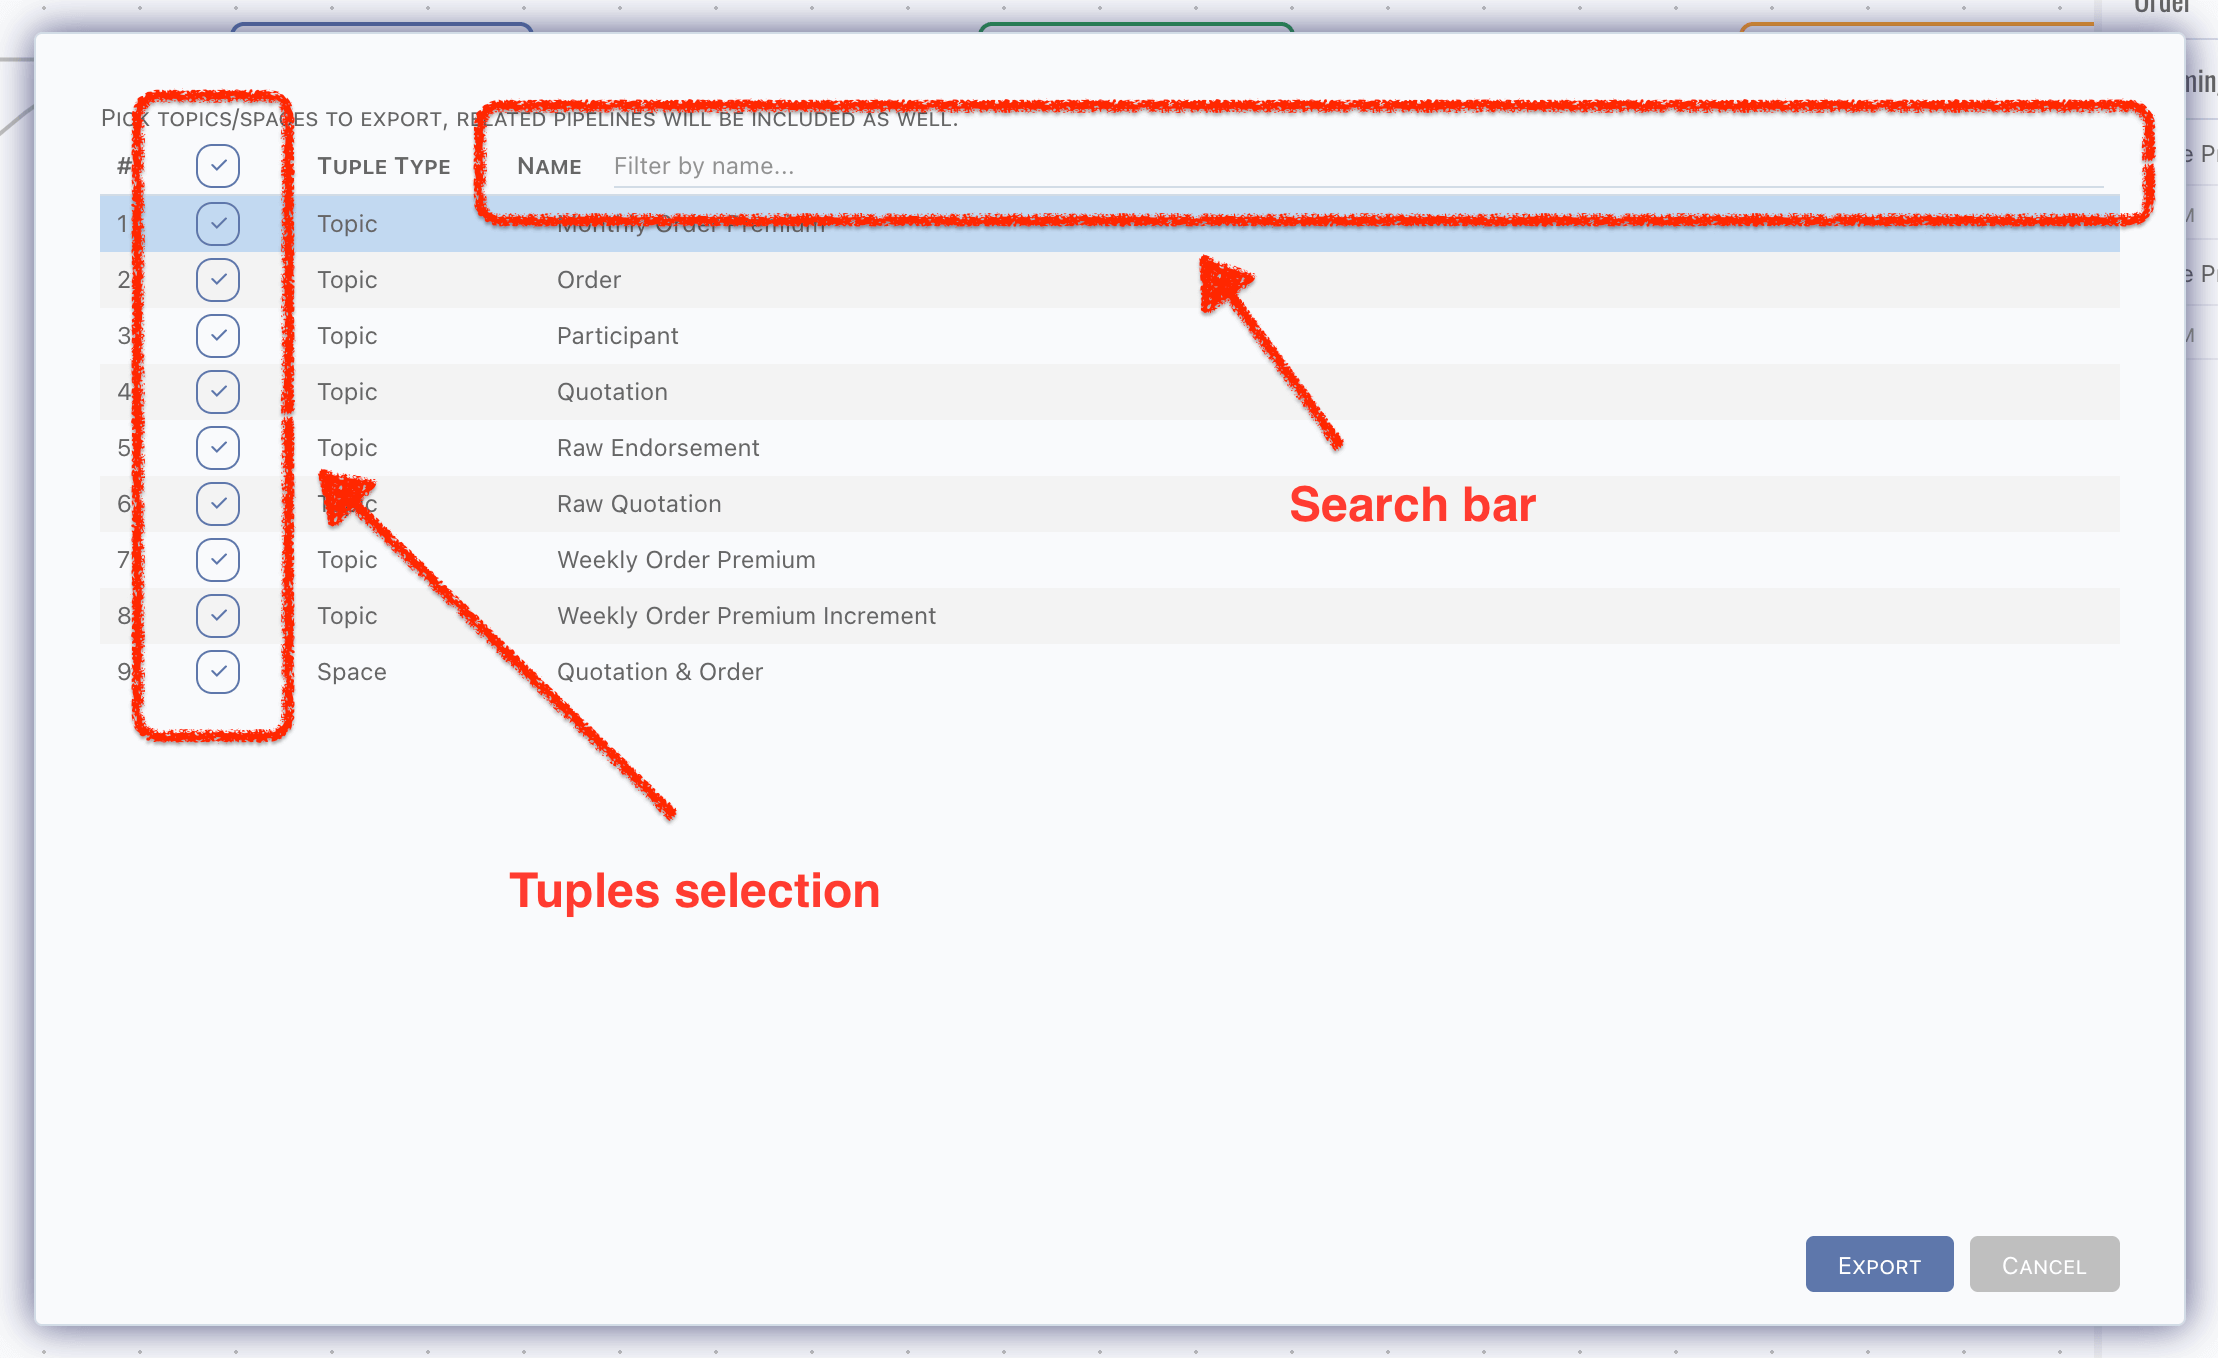
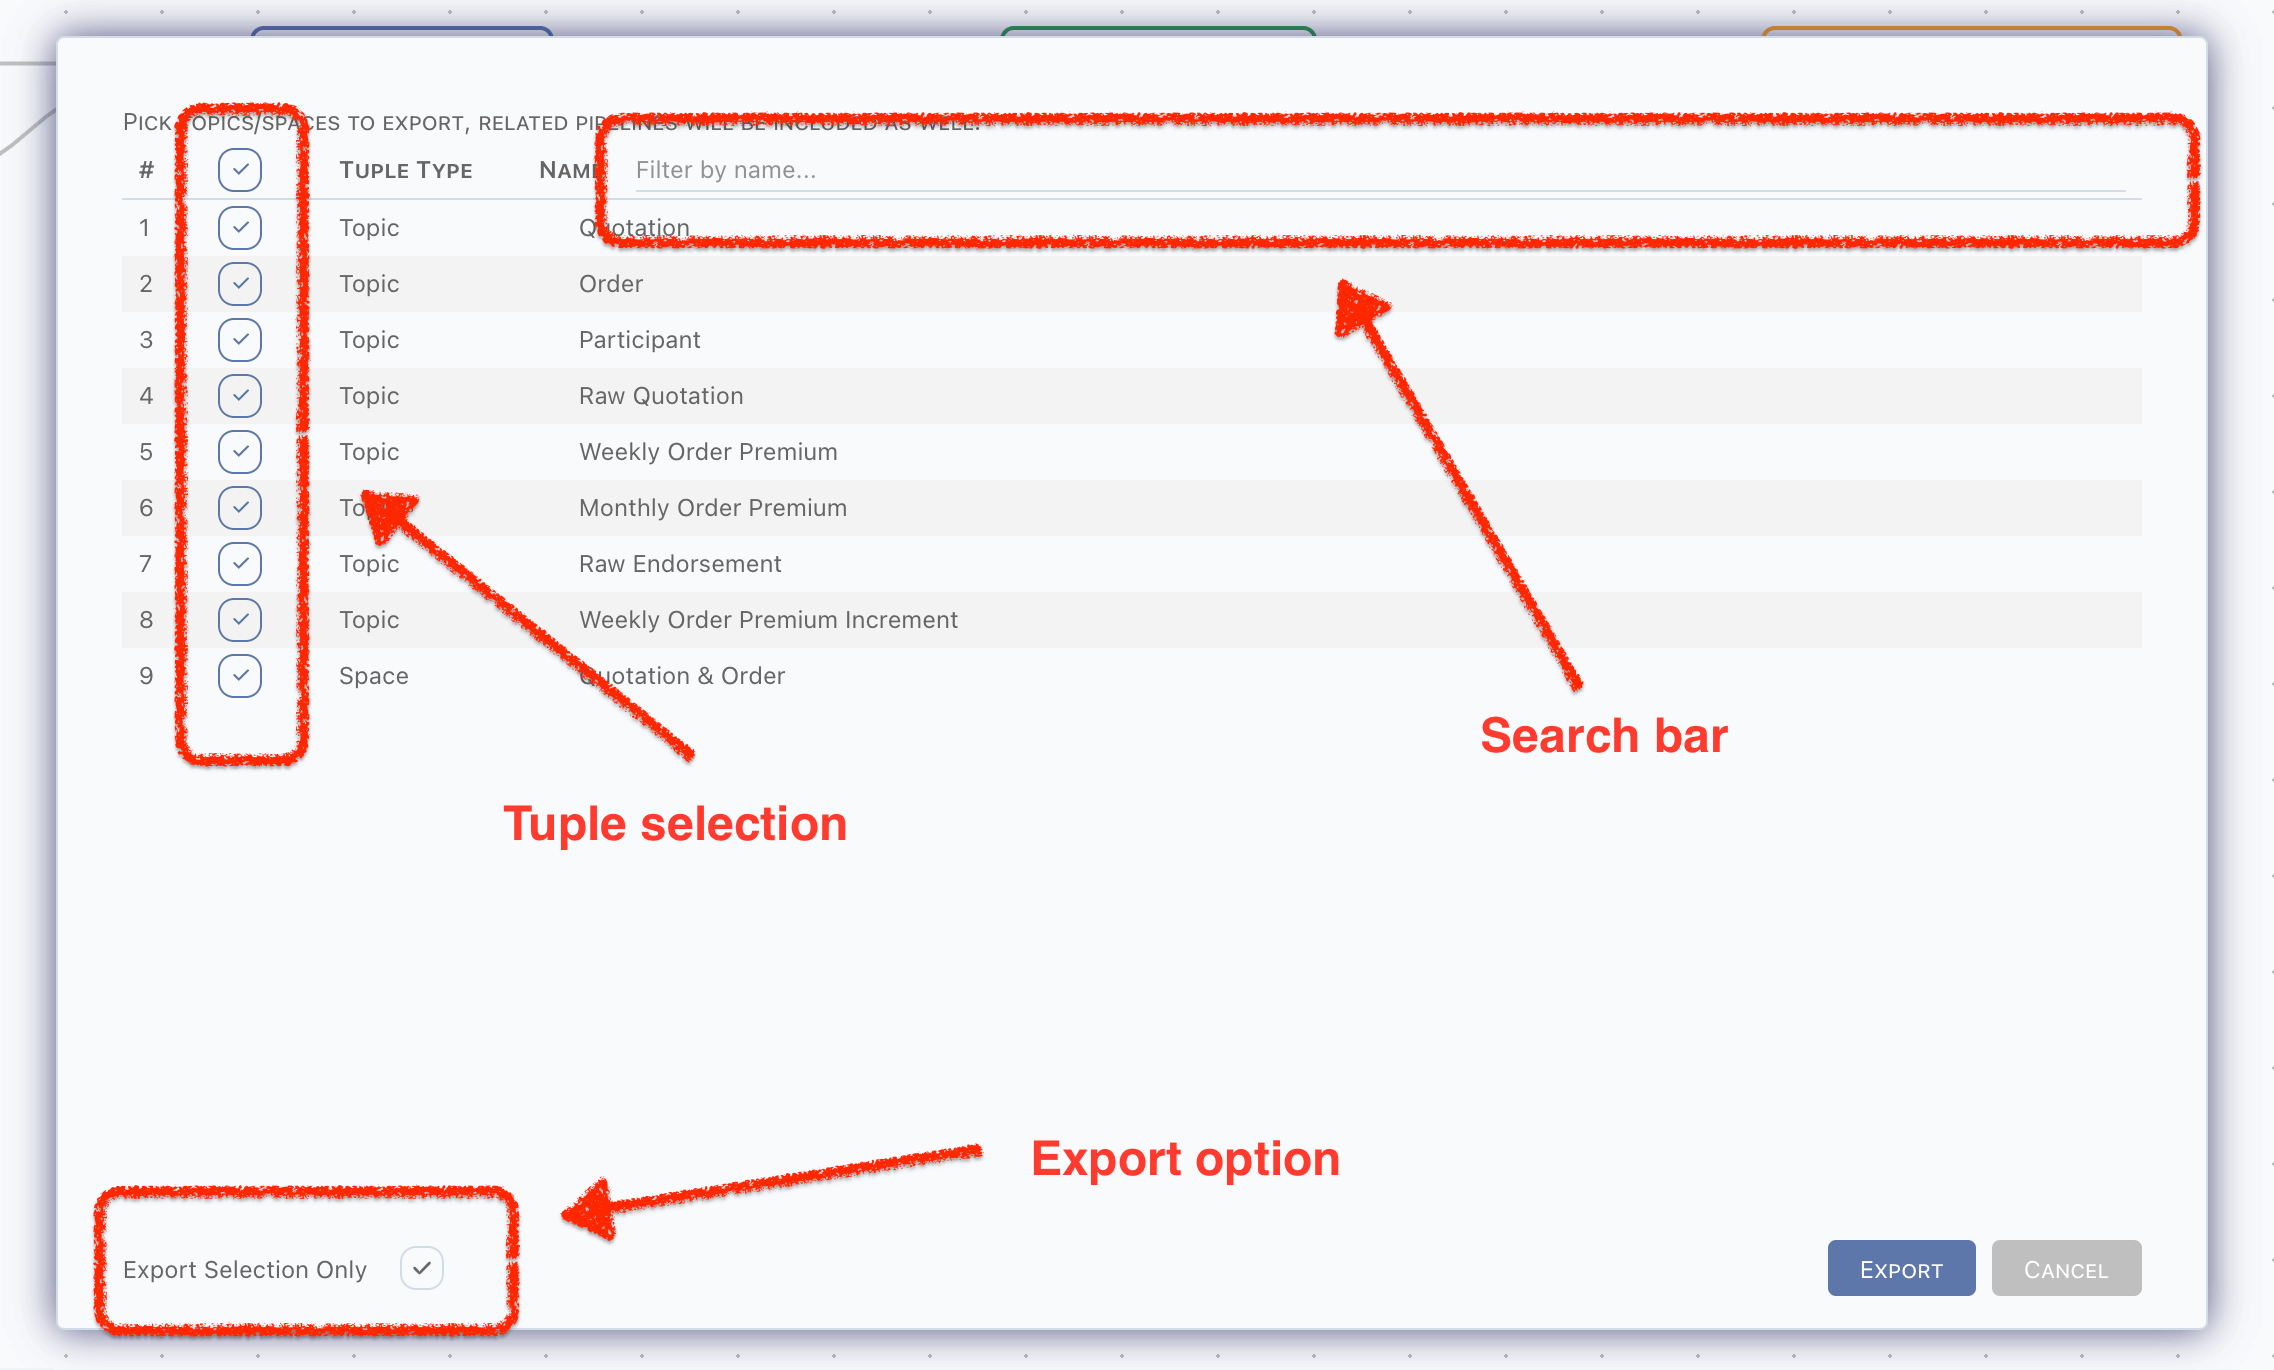
initialize

diff --git a/docs/web-client/admin/pipeline.md b/docs/web-client/admin/pipeline.md
@@ -86,14 +86,15 @@ Topics, pipelines and other tuples related can be exported as a zip file, by cli
 
 - All topics and spaces are available in export dialog,
 - Topics assigned to space will be selected automatically when space is selected,
-- Topic not selected will also be packed into zip only when it is upstream of one of the selected topics,
+- Topic not selected will not be packed into zip,
+  - Or topics relevant will be packed when `Export Selection Only` is unpicked,
 - Monitor rules on selected topics will be packed into zip,
-	- Rules use another topic, and the related topic is not included, will be excluded,
+    - Rules use another topic, and the related topic is not included, will be excluded,
 - Space will be deselected automatically when topic within it is deselected,
 - Any tuples included by space will be packed into zip according to selected spaces.
 - Pipelines will be packed into zip only when,
-	- Triggerred topic is selected,
-	- Topics receive data from this pipeline are selected.
+    - Triggerred topic is selected,
+    - Topics receive data from this pipeline are selected.
 
 There is only one file in this zip,
 
